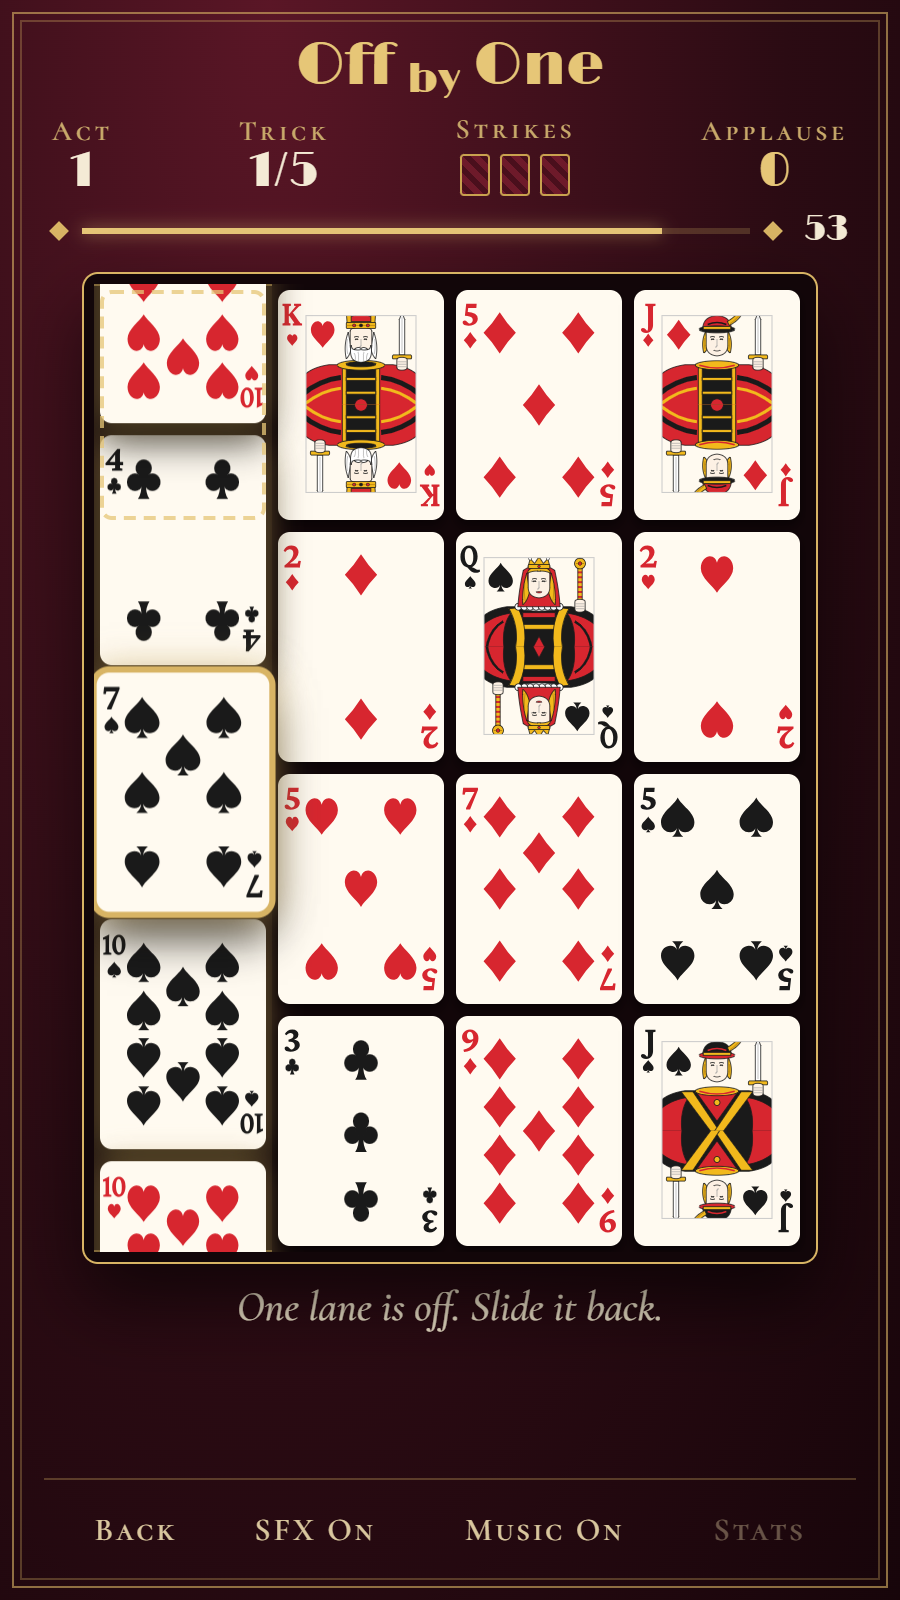
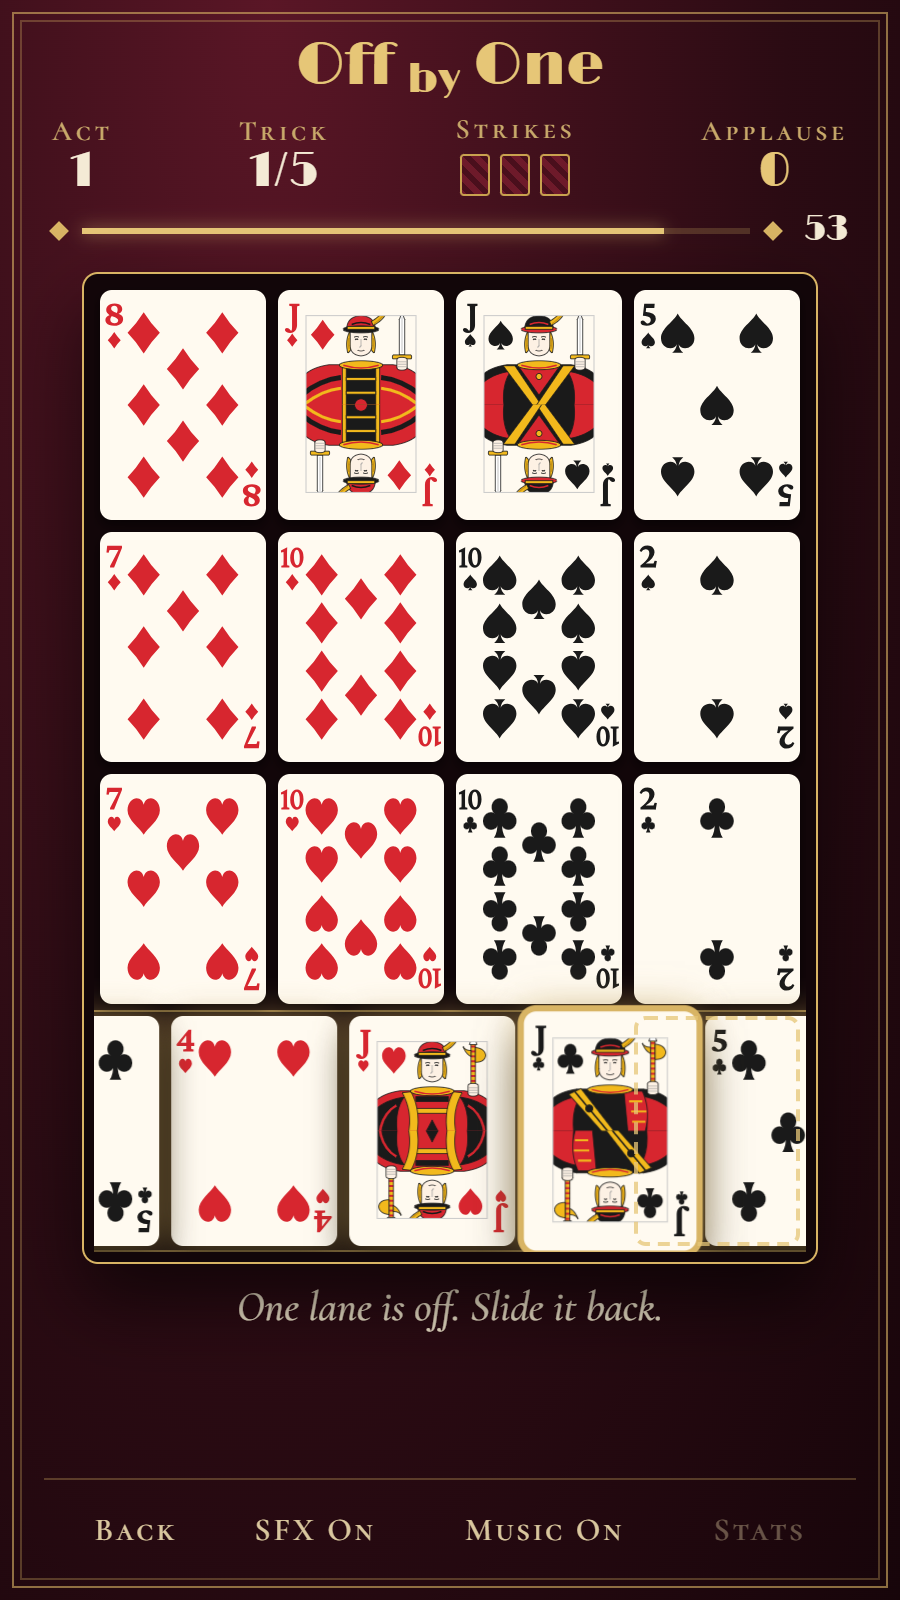
.

diff --git a/scripts/cover.html b/scripts/cover.html
@@ -6,7 +6,8 @@
 <!-- The itch.io art, rendered by render-cover.sh (stills) and render-cover-gif.mjs (GIFs): the felt caught mid-trick.
      A row is on its way back, half a card along: the card leaving at the right comes round at the left (the wrap copy,
      as the board draws it), and the card it was taken by is lifted with its gold ring over the dashed frame of where it
-     started. The 3-row board is valid once the row is home (the rank gap, ok in logic.js), so the picture plays fair.
+     started. The 3-row board is valid once the row is home (suit or rank, ok in logic.js, and not striped), and the
+     embed's row too, each clashing as dealt, so the picture plays fair.
      Animated (window.frame), the row goes home, the felt glows as on a win, the next deal pushes the cards off to the
      left, and the same board comes in slipped and is taken up again, back to the first frame. Layouts:
      (no hash)  the cover, 630 × 500, the title over the board
@@ -230,15 +231,15 @@
 	// one to the right; and the card it was taken by, in the solved row, so its frame is one place to the right
 	const BOARD = {
 		cards: [
-			['SA', 'H9', 'CQ', 'D4', 'S7'],
-			['DJ', 'C6', 'H2', 'S10', 'HK'],
-			['C8', 'HQ', 'S5', 'D7', 'C3']
+			['DJ', 'HJ', 'H9', 'C9', 'CK'],
+			['DA', 'HA', 'HQ', 'CQ', 'C6'],
+			['CA', 'SA', 'SQ', 'DQ', 'D6']
 		],
 		row: 1,
 		anchor: 2
 	};
 	// the Embed BG's: one row, under the button
-	const ROW = { cards: [['C3', 'H8', 'SK', 'D5', 'C10', 'HA', 'S6']], row: 0, anchor: 3 };
+	const ROW = { cards: [['DK', 'HK', 'H9', 'C9', 'CJ', 'HJ', 'SJ']], row: 0, anchor: 3 };
 
 	// W, H: the picture; CW: a card's width; FX, FY: the felt's centre; SPOT: the spotlight's ellipse
 	const LAYOUTS = {

diff --git a/scripts/rules-2.html b/scripts/rules-2.html
@@ -4,8 +4,8 @@
 <meta charset="utf-8">
 <title>Rules</title>
 <!-- The rules graphic for the itch.io page, in the format of Dark Matter's rules-2: Home's rules (src/Home.svelte, its
-     third RULE_TEXT in src/logic.js) styled as there, with its gold diamonds, on the game's velvet, and that aces are
-     high. 450 × 320, rendered by render-cover.sh at twice that. Change the wording with Home's. -->
+     third RULE_TEXT in src/logic.js, suit or rank's) styled as there, with its gold diamonds, on the game's velvet.
+     450 × 320, rendered by render-cover.sh at twice that. Change the wording with Home's. -->
 <style>
 	@font-face {
 		font-family: CG;
@@ -89,7 +89,7 @@
 	<ul class="rules">
 		<li><span>One row or column has <em>slipped</em> out of place.</span></li>
 		<li><span>Slide it back. Cards that leave one end <em>come round</em> at the other.</span></li>
-		<li><span>Touching cards must differ in rank by <em>at least two</em>. Aces are high.</span></li>
+		<li><span>Touching cards must share <em>a suit or a rank</em>.</span></li>
 		<li><span>Fix it in <em>one shift</em>. Beat the clock.</span></li>
 	</ul>
 </div>

diff --git a/CLAUDE.md b/CLAUDE.md
@@ -182,7 +182,8 @@ events past the window's edge. The puzzles are random: look at the results, and 
 - `scripts/cover.html`: the felt caught mid-trick. A row is half a card from home, the card leaving at the right coming
   round at the left, the card it was taken by lifted with its gold ring over the dashed frame of where it started, as
   the board draws a move. The 3-row board is valid once the row is home, so the picture plays fair: change the cards
-  with the rule. Animated (`window.frame`, a 5 s loop starting on the still), the row goes home, the felt glows as on a
+  with the rule. Under suit or rank, both it and the Embed BG's row clash as dealt and solve only by the way home, and
+  the board isn't striped (picked by a search over generated boards). Animated (`window.frame`, a 5 s loop starting on the still), the row goes home, the felt glows as on a
   win, the next deal pushes the cards off to the left, and the same board comes in slipped and is taken up again. The
   drag is one move from as dealt to home, eased once across the loop's seam with the still at its middle, so it never
   stops half-way (the designer's call).
@@ -195,8 +196,8 @@ events past the window's edge. The puzzles are random: look at the results, and 
   folds are waves a whole number of times across the tile, its nap noise that wraps, and it doesn't change from top to
   bottom.
 - `scripts/rules-2.html`, the rules graphic for the page's description, 450 × 320 rendered at twice that, in the format of
-  Dark Matter's rules-2: Home's rules styled as there, with that aces are high (the score and strikes were dropped, the
-  designer's call). Change it with Home's wording.
+  Dark Matter's rules-2: Home's rules styled as there, suit or rank's (the score and strikes were dropped, the designer's
+  call; "Aces are high." went with the rank gap). Change it with Home's wording.
 - `scripts/logo.html`, the logo, 1000 × 300 on transparency: the icon's heart and spade as two cards of a row, the spade
   slid off its dashed frame and lifted with its gold ring, beside the title. Gold letters and ivory cards on dark
   outlines, as itch wants it legible on white and black.
